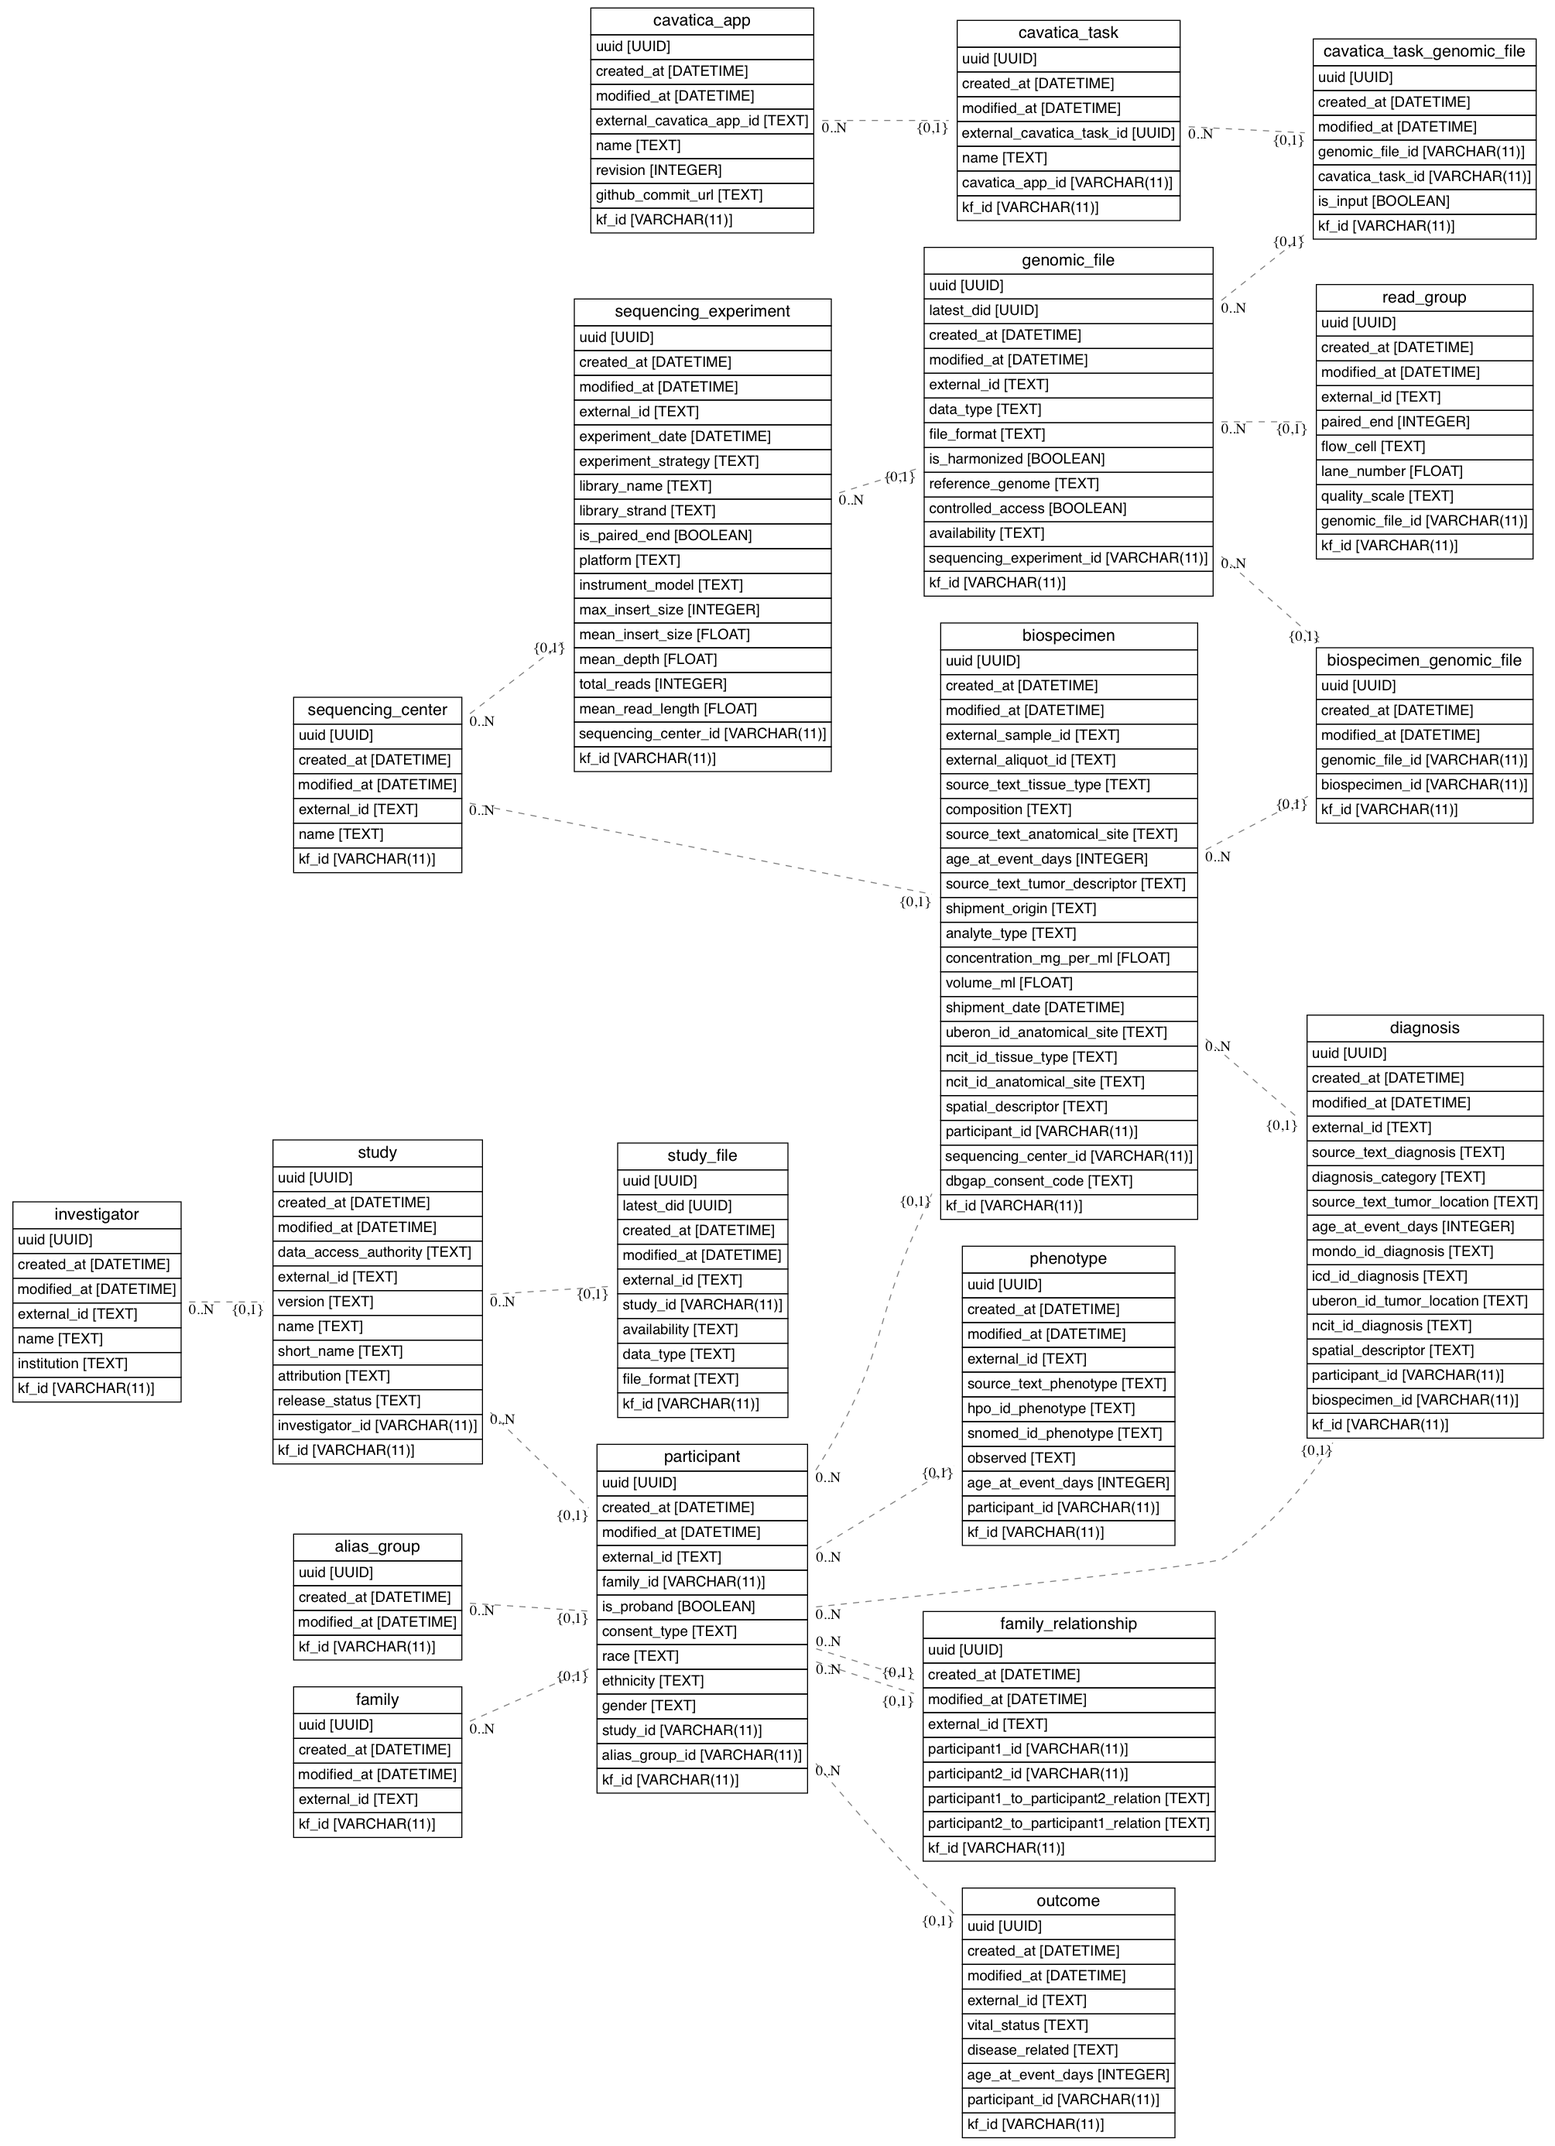
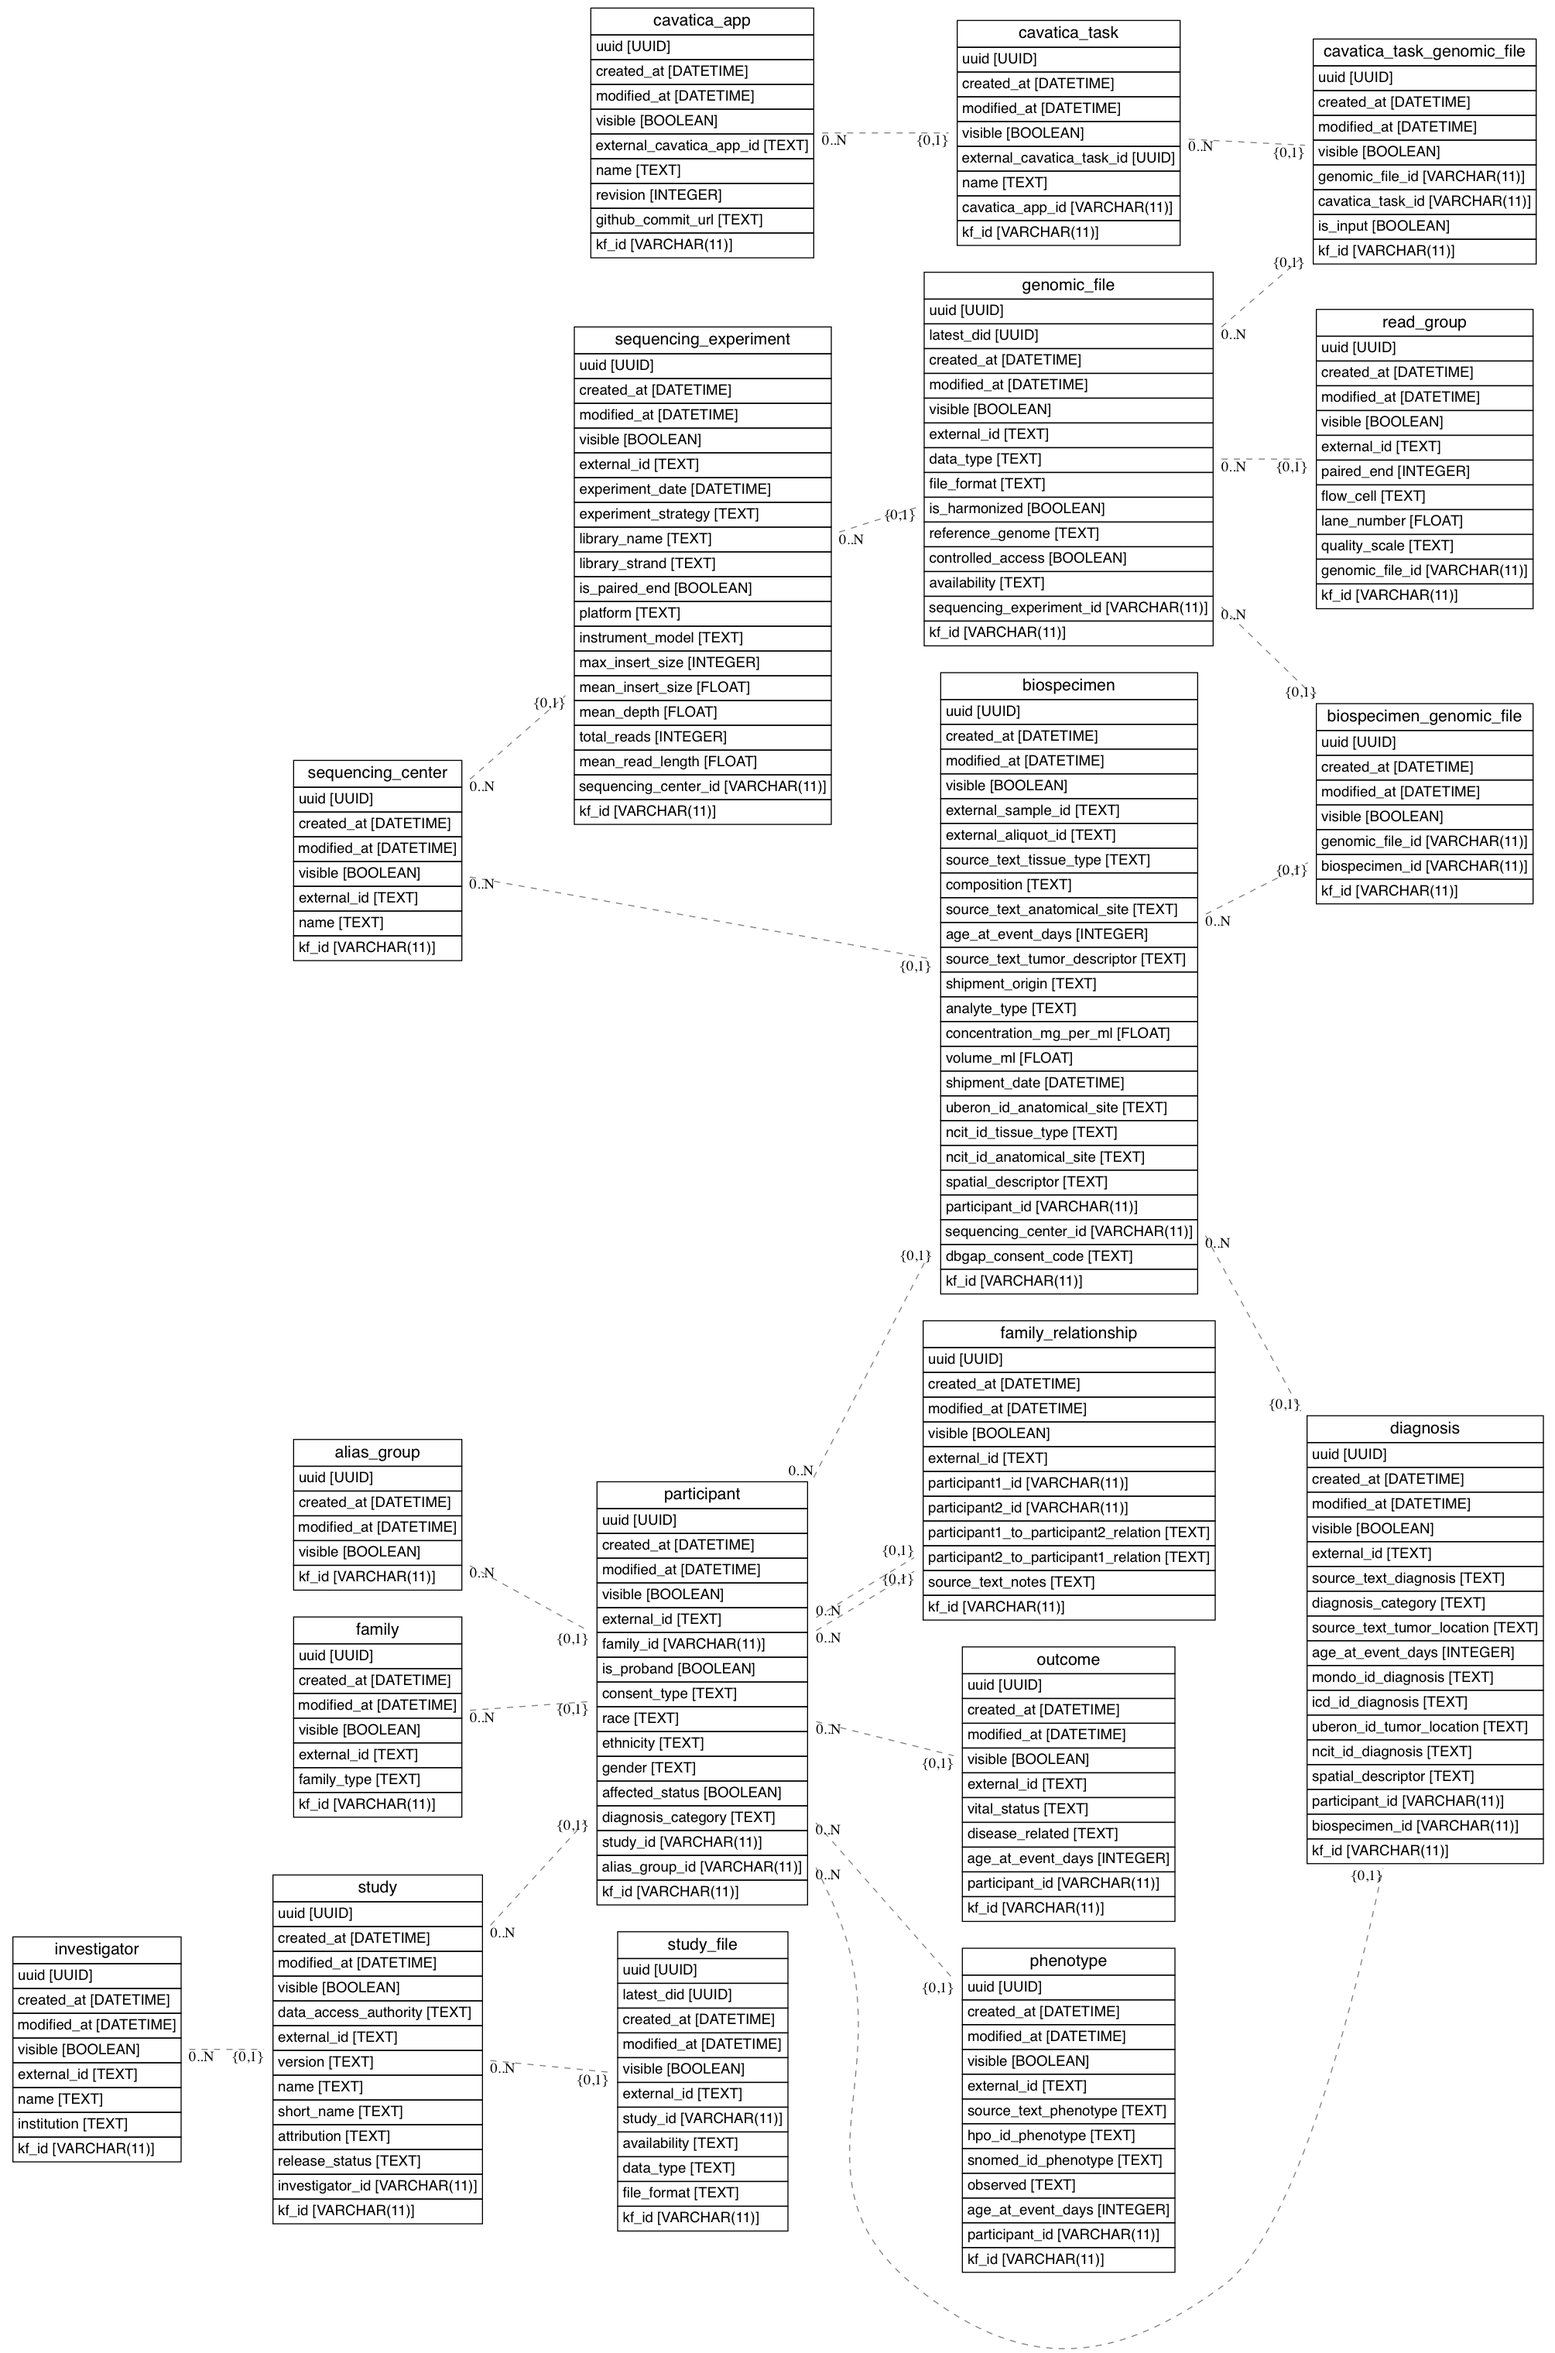
:card_file_box: Add migrations and update erd for advanced family model changes

diff --git a/migrations/versions/9d1b39dd9af5_.py b/migrations/versions/9d1b39dd9af5_.py
@@ -1,0 +1,47 @@
+"""
+1.2.2 - Add affected_status, diagnosis_category and update is_proband
+to nullable for participant
+Add family_type to family
+Add source_text_notes to family_relationship
+
+Revision ID: 9d1b39dd9af5
+Revises: c0f56e327e8d
+Create Date: 2018-08-09 12:11:13.261674
+
+"""
+from alembic import op
+import sqlalchemy as sa
+import dataservice
+
+# revision identifiers, used by Alembic.
+revision = '9d1b39dd9af5'
+down_revision = 'c0f56e327e8d'
+branch_labels = None
+depends_on = None
+
+
+def upgrade():
+    # ### commands auto generated by Alembic - please adjust! ###
+    op.add_column('family', sa.Column('family_type', sa.Text(), nullable=True))
+    op.add_column('family_relationship', sa.Column(
+        'source_text_notes', sa.Text(), nullable=True))
+    op.add_column('participant', sa.Column(
+        'affected_status', sa.Boolean(), nullable=True))
+    op.add_column('participant', sa.Column(
+        'diagnosis_category', sa.Text(), nullable=True))
+    op.alter_column('participant', 'is_proband',
+                    existing_type=sa.BOOLEAN(),
+                    nullable=True)
+    # ### end Alembic commands ###
+
+
+def downgrade():
+    # ### commands auto generated by Alembic - please adjust! ###
+    op.alter_column('participant', 'is_proband',
+                    existing_type=sa.BOOLEAN(),
+                    nullable=False)
+    op.drop_column('participant', 'diagnosis_category')
+    op.drop_column('participant', 'affected_status')
+    op.drop_column('family_relationship', 'source_text_notes')
+    op.drop_column('family', 'family_type')
+    # ### end Alembic commands ###
